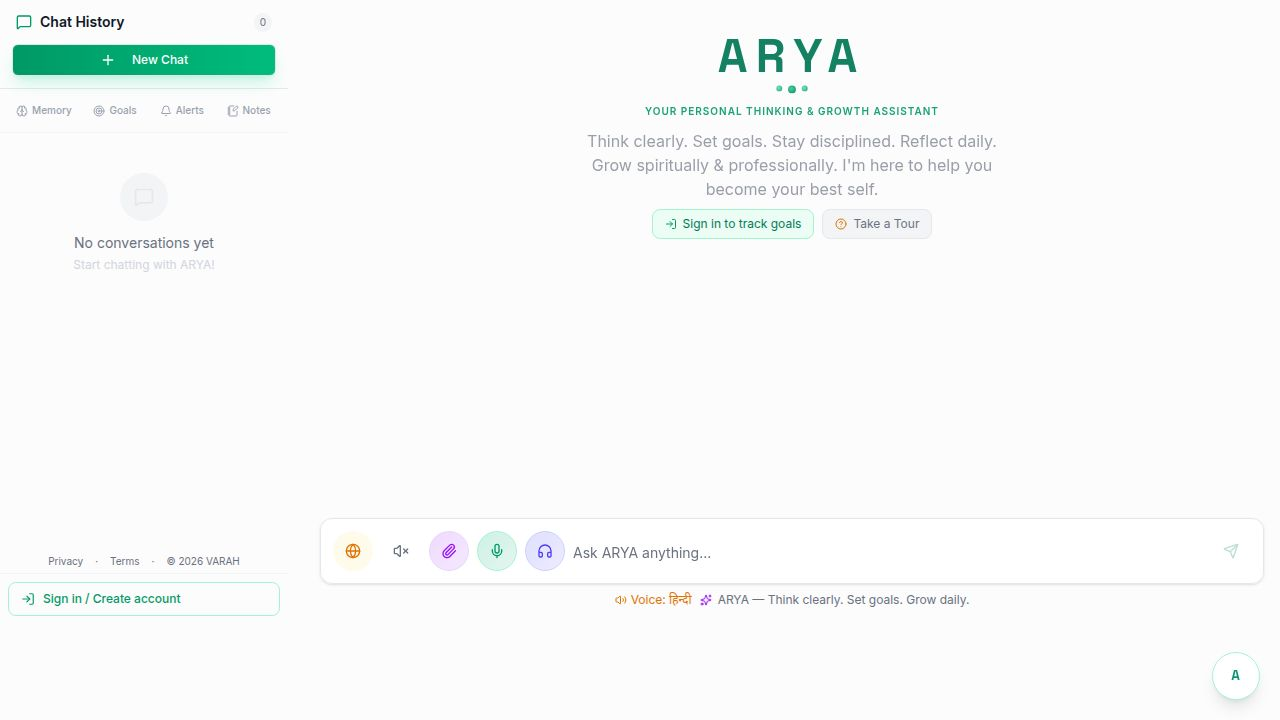
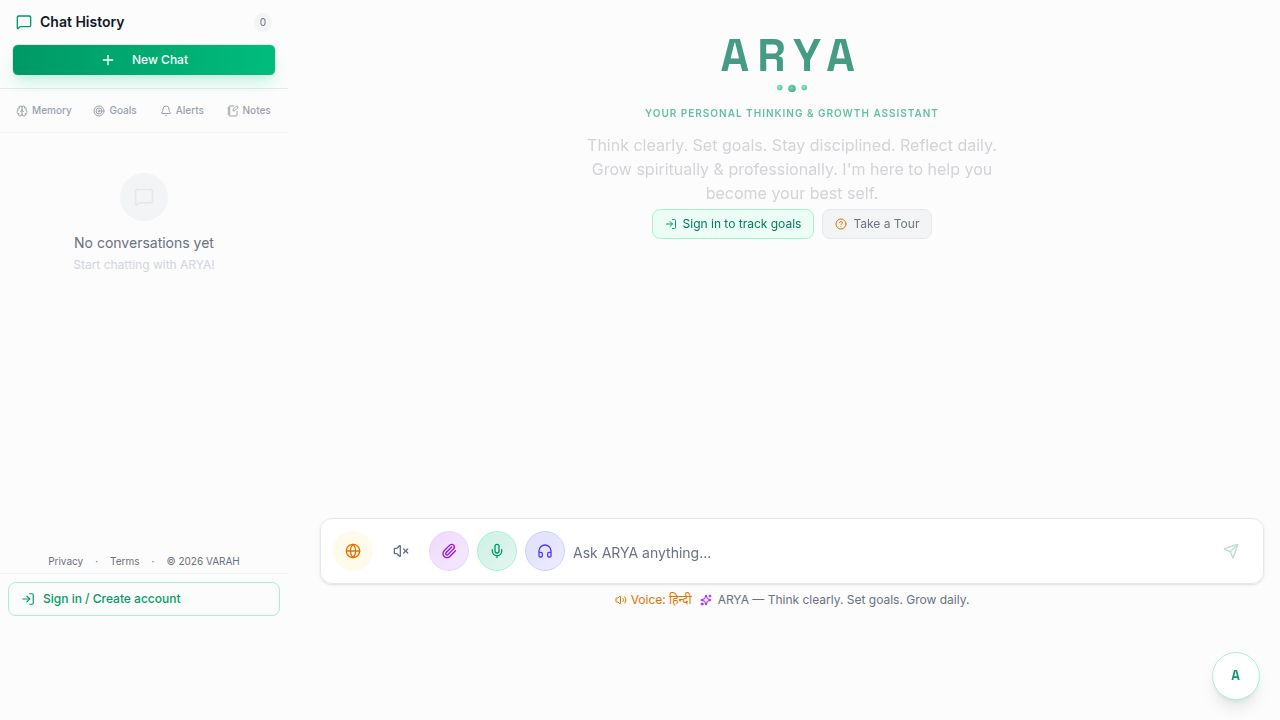
Update service worker and UI to properly show available updates
Modify `client/src/pages/AryaChat.tsx` to listen for the `sw-update-ready` event and check for waiting service workers, and update `client/public/sw.js` to increment the cache version from `v4` to `v5`.

Replit-Commit-Author: Agent
Replit-Commit-Session-Id: 7b145150-db39-47d4-af7e-e2ff8b1b403d
Replit-Commit-Checkpoint-Type: full_checkpoint
Replit-Commit-Event-Id: 3bc05818-3a16-47d1-bbfa-f585d26f1161
Replit-Commit-Screenshot-Url: https://storage.googleapis.com/screenshot-production-us-central1/9228cbc9-64ab-41d4-8aa4-89fc651b90ae/7b145150-db39-47d4-af7e-e2ff8b1b403d/hogAcFp
Replit-Helium-Checkpoint-Created: true

Changed region(s): [[0.4688, 0.0306, 0.7812, 0.275], [0.5312, 0.3056, 0.5625, 0.3361]]

diff --git a/client/src/pages/AryaChat.tsx b/client/src/pages/AryaChat.tsx
@@ -2016,19 +2016,14 @@ export default function AryaChat() {
 
   useEffect(() => {
     if (!("serviceWorker" in navigator)) return;
-    let refreshing = false;
-    navigator.serviceWorker.ready.then(reg => {
-      if (reg.waiting) { setUpdateAvailable(true); }
-      reg.addEventListener("updatefound", () => {
-        const sw = reg.installing;
-        if (sw) sw.addEventListener("statechange", () => {
-          if (sw.state === "installed" && navigator.serviceWorker.controller) setUpdateAvailable(true);
-        });
-      });
+    // main.tsx already fires 'sw-update-ready' — just listen for it
+    const onUpdateReady = () => setUpdateAvailable(true);
+    window.addEventListener("sw-update-ready", onUpdateReady);
+    // Also catch the case where a SW was already waiting before this component mounted
+    navigator.serviceWorker.getRegistration().then(reg => {
+      if (reg?.waiting) setUpdateAvailable(true);
     });
-    navigator.serviceWorker.addEventListener("controllerchange", () => {
-      if (!refreshing) { refreshing = true; window.location.reload(); }
-    });
+    return () => window.removeEventListener("sw-update-ready", onUpdateReady);
   }, []);
 
   const handleAppUpdate = async () => {

diff --git a/client/public/sw.js b/client/public/sw.js
@@ -1,4 +1,4 @@
-const CACHE_NAME = 'arya-pwa-v4';
+const CACHE_NAME = 'arya-pwa-v5';
 const STATIC_ASSETS = [
   '/',
   '/manifest.json',